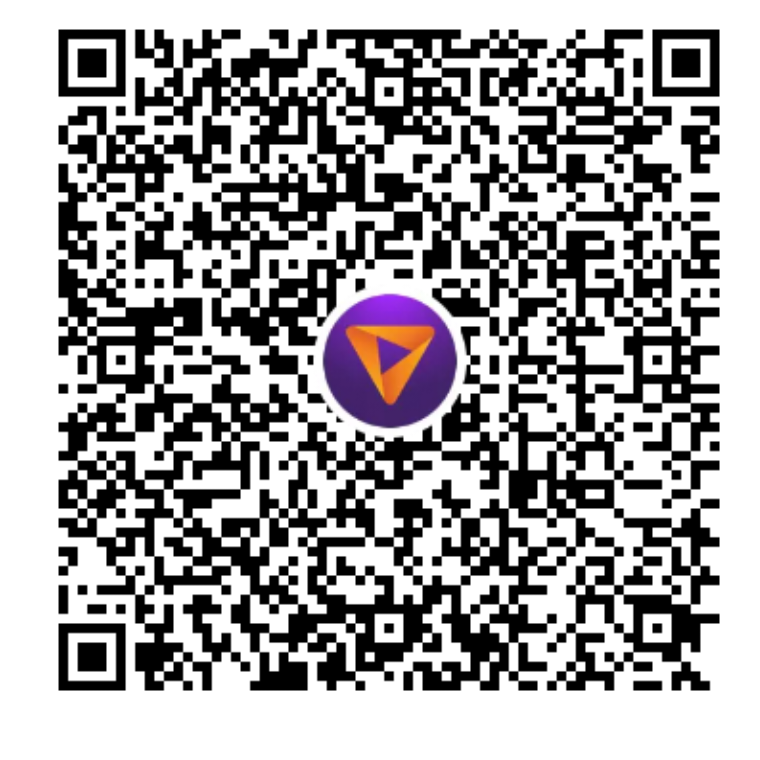
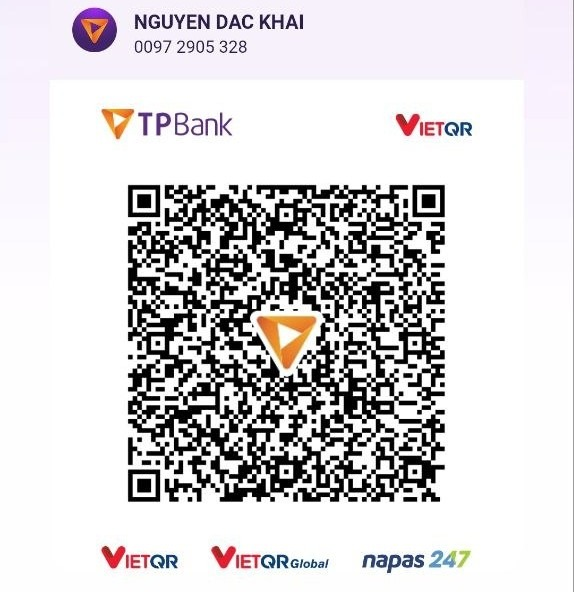
feat(payment): update QR code, TPBank account to 00972905328 and emphasize transfer content reminder

diff --git a/src/components/PaymentDashboard.tsx b/src/components/PaymentDashboard.tsx
@@ -295,6 +295,19 @@ const PaymentDashboard: React.FC<PaymentDashboardProps> = ({ translations }) => 
     setCustomPaymentAmount(String(normalizedAmount));
   };
 
+  const getBankDisplayName = (bankId?: string) => {
+    if (!bankId) return 'TPBank';
+    if (bankId === '970423' || bankId.toUpperCase() === 'TPB' || bankId.toUpperCase() === 'TPBANK') {
+      return 'TPBank';
+    }
+    return bankId;
+  };
+
+  const getEffectiveAccountNo = (accountNo?: string) => {
+    if (!accountNo || accountNo === '00004446755') return '0097 2905 328';
+    return accountNo;
+  };
+
   const buildClientVietQrUrl = (bankId: string, info: AutoPaymentInfo, amount: number) => {
     const safeAmount = normalizePaymentAmount(amount, getMaxAutoPaymentAmount(info));
     const params = new URLSearchParams({
@@ -306,17 +319,22 @@ const PaymentDashboard: React.FC<PaymentDashboardProps> = ({ translations }) => 
       params.set('accountName', info.bank.accountName);
     }
 
-    return `https://img.vietqr.io/image/${encodeURIComponent(bankId)}-${encodeURIComponent(info.bank?.accountNo || '')}-compact2.png?${params.toString()}`;
+    const safeAccountNo = (info.bank?.accountNo === '00004446755' || !info.bank?.accountNo)
+      ? '00972905328'
+      : info.bank.accountNo.replace(/\s+/g, '');
+    const safeBankId = (bankId === '970423' || bankId === 'TPB' || !bankId) ? 'TPBank' : bankId;
+
+    return `https://img.vietqr.io/image/${encodeURIComponent(safeBankId)}-${encodeURIComponent(safeAccountNo)}-compact2.png?${params.toString()}`;
   };
 
   const getCurrentQrUrl = (info: AutoPaymentInfo) => {
     const safeAmount = normalizePaymentAmount(selectedPaymentAmount, getMaxAutoPaymentAmount(info));
 
-    if (autoPaymentQrFailed || !info.bankConfigured || !info.bank?.accountNo || safeAmount <= 0) {
+    if (autoPaymentQrFailed || !info.bankConfigured || safeAmount <= 0) {
       return null;
     }
 
-    return buildClientVietQrUrl(info.bank.bankId, info, safeAmount);
+    return buildClientVietQrUrl(info.bank?.bankId || 'TPBank', info, safeAmount);
   };
 
   const handleQrImageError = (event: React.SyntheticEvent<HTMLImageElement>, info: AutoPaymentInfo) => {
@@ -325,14 +343,26 @@ const PaymentDashboard: React.FC<PaymentDashboardProps> = ({ translations }) => 
     const safeAmount = normalizePaymentAmount(selectedPaymentAmount, getMaxAutoPaymentAmount(info));
 
     if (fallbackState === 'primary') {
+      img.dataset.fallbackState = 'tpbank';
+      img.src = buildClientVietQrUrl('TPBank', info, safeAmount);
+      return;
+    }
+
+    if (fallbackState === 'tpbank') {
+      img.dataset.fallbackState = '970423';
+      img.src = buildClientVietQrUrl('970423', info, safeAmount);
+      return;
+    }
+
+    if (fallbackState === '970423') {
       img.dataset.fallbackState = 'tpb';
       img.src = buildClientVietQrUrl('TPB', info, safeAmount);
       return;
     }
 
     if (fallbackState === 'tpb') {
-      img.dataset.fallbackState = 'tpbank';
-      img.src = buildClientVietQrUrl('TPBank', info, safeAmount);
+      img.dataset.fallbackState = 'static';
+      img.src = '/QR.png';
       return;
     }
 
@@ -744,15 +774,15 @@ const PaymentDashboard: React.FC<PaymentDashboardProps> = ({ translations }) => 
                   <div className="payment-bank-card rounded-xl border border-app-accent/15 bg-white/95 divide-y divide-app-accent/10">
                     <div className="flex items-center justify-between gap-3 p-4">
                       <span className="text-sm text-app-ink/50">Ngân hàng</span>
-                      <span className="font-semibold text-app-ink text-right">{autoPaymentInfo.bank.bankId}</span>
+                      <span className="font-semibold text-app-ink text-right">{getBankDisplayName(autoPaymentInfo.bank.bankId)}</span>
                     </div>
                     <div className="flex items-center justify-between gap-3 p-4">
                       <span className="text-sm text-app-ink/50">Số tài khoản</span>
                       <div className="flex items-center gap-2 min-w-0">
-                        <span className="font-semibold text-app-ink truncate">{autoPaymentInfo.bank.accountNo}</span>
+                        <span className="font-semibold text-app-ink truncate font-mono">{getEffectiveAccountNo(autoPaymentInfo.bank.accountNo)}</span>
                         <button
                           type="button"
-                          onClick={() => copyToClipboard(autoPaymentInfo.bank?.accountNo || '', 'account')}
+                          onClick={() => copyToClipboard(getEffectiveAccountNo(autoPaymentInfo.bank?.accountNo).replace(/\s+/g, ''), 'account')}
                           className="shrink-0 p-2 rounded-lg hover:bg-app-accent/5 transition-colors"
                           title="Copy số tài khoản"
                         >
@@ -772,14 +802,14 @@ const PaymentDashboard: React.FC<PaymentDashboardProps> = ({ translations }) => 
                   </div>
                 )}
 
-                <div className="payment-help-note rounded-xl border border-app-accent/20 bg-app-accent/5 p-3 sm:p-4 text-xs sm:text-sm text-app-ink/70 leading-relaxed">
+                <div className="payment-help-note rounded-xl border border-amber-500/30 bg-amber-500/10 p-3.5 sm:p-4 text-xs sm:text-sm text-app-ink leading-relaxed shadow-sm">
                   {isAutoPaymentQuotaExhausted ? (
                     <>
-                      Quét mã này bằng app ngân hàng hoặc chuyển khoản trực tiếp vào tài khoản TPBank ở trên. Vui lòng giữ nội dung <span className="font-bold">{autoPaymentInfo.transferContent || autoPaymentInfo.code}</span> để admin đối chiếu và xác nhận thủ công.
+                      Quét mã này bằng app ngân hàng hoặc chuyển khoản trực tiếp vào tài khoản TPBank ở trên. Vui lòng <strong className="font-bold text-red-600 uppercase">GIỮ NGUYÊN NỘI DUNG CHUYỂN KHOẢN</strong> &ldquo;<strong className="font-bold text-app-accent select-all bg-white/80 px-1.5 py-0.5 rounded border border-app-accent/20">{autoPaymentInfo.transferContent || autoPaymentInfo.code}</strong>&rdquo;, nếu không giao dịch đó sẽ <strong className="font-bold text-red-600">không được hệ thống tự động ghi nhận</strong> là đã thanh toán.
                     </>
                   ) : (
                     <>
-                      Quét mã này bằng app ngân hàng, sau đó kiểm tra số tiền đã chọn và nội dung <span className="font-bold">{autoPaymentInfo.transferContent || autoPaymentInfo.code}</span> trước khi xác nhận. Khi tiền vào, webhook sẽ tự ghi nhận theo đúng số tiền ngân hàng gửi về.
+                      Vui lòng <strong className="font-bold text-red-600 uppercase">GIỮ NGUYÊN NỘI DUNG CHUYỂN KHOẢN</strong> &ldquo;<strong className="font-bold text-app-accent select-all bg-white/80 px-1.5 py-0.5 rounded border border-app-accent/20">{autoPaymentInfo.transferContent || autoPaymentInfo.code}</strong>&rdquo;, nếu không giao dịch đó sẽ <strong className="font-bold text-red-600">không được hệ thống tự động ghi nhận</strong> là đã thanh toán.
                     </>
                   )}
                 </div>

diff --git a/src/App.tsx b/src/App.tsx
@@ -940,6 +940,19 @@ export default function App() {
 
   const dashboardPaymentMonth = useMemo(() => new Date().toISOString().slice(0, 7), []);
 
+  const getBankDisplayName = (bankId?: string) => {
+    if (!bankId) return 'TPBank';
+    if (bankId === '970423' || bankId.toUpperCase() === 'TPB' || bankId.toUpperCase() === 'TPBANK') {
+      return 'TPBank';
+    }
+    return bankId;
+  };
+
+  const getEffectiveAccountNo = (accountNo?: string) => {
+    if (!accountNo || accountNo === '00004446755') return '0097 2905 328';
+    return accountNo;
+  };
+
   const buildDashboardVietQrUrl = (bankId: string, info: DashboardAutoPaymentInfo) => {
     const amount = Math.max(0, Math.round(Number(info.amount || info.remainingTotal || 0)));
     const params = new URLSearchParams({
@@ -951,7 +964,12 @@ export default function App() {
       params.set('accountName', info.bank.accountName);
     }
 
-    return `https://img.vietqr.io/image/${encodeURIComponent(bankId)}-${encodeURIComponent(info.bank?.accountNo || '')}-compact2.png?${params.toString()}`;
+    const safeAccountNo = (info.bank?.accountNo === '00004446755' || !info.bank?.accountNo)
+      ? '00972905328'
+      : info.bank.accountNo.replace(/\s+/g, '');
+    const safeBankId = (bankId === '970423' || bankId === 'TPB' || !bankId) ? 'TPBank' : bankId;
+
+    return `https://img.vietqr.io/image/${encodeURIComponent(safeBankId)}-${encodeURIComponent(safeAccountNo)}-compact2.png?${params.toString()}`;
   };
 
   const loadDashboardAutoPaymentInfo = useCallback(async () => {
@@ -997,14 +1015,26 @@ export default function App() {
     const fallbackState = img.dataset.fallbackState || 'primary';
 
     if (fallbackState === 'primary') {
+      img.dataset.fallbackState = 'tpbank';
+      img.src = buildDashboardVietQrUrl('TPBank', info);
+      return;
+    }
+
+    if (fallbackState === 'tpbank') {
+      img.dataset.fallbackState = '970423';
+      img.src = buildDashboardVietQrUrl('970423', info);
+      return;
+    }
+
+    if (fallbackState === '970423') {
       img.dataset.fallbackState = 'tpb';
       img.src = buildDashboardVietQrUrl('TPB', info);
       return;
     }
 
     if (fallbackState === 'tpb') {
-      img.dataset.fallbackState = 'tpbank';
-      img.src = buildDashboardVietQrUrl('TPBank', info);
+      img.dataset.fallbackState = 'static';
+      img.src = '/QR.png';
       return;
     }
 
@@ -2182,8 +2212,8 @@ export default function App() {
                         ) : dashboardAutoPaymentInfo?.bank ? (
                           <>
                             <div className="font-bold">{dashboardAutoPaymentInfo.bank.accountName || 'Tài khoản thanh toán'}</div>
-                            <div className="font-mono">{dashboardAutoPaymentInfo.bank.accountNo}</div>
-                            <div className="font-semibold">{dashboardAutoPaymentInfo.bank.bankId}</div>
+                            <div className="font-mono">{getEffectiveAccountNo(dashboardAutoPaymentInfo.bank.accountNo)}</div>
+                            <div className="font-semibold">{getBankDisplayName(dashboardAutoPaymentInfo.bank.bankId)}</div>
                             {dashboardAutoPaymentInfo.code && (
                               <div className="font-mono text-xs opacity-90">{dashboardAutoPaymentInfo.transferContent || dashboardAutoPaymentInfo.code}</div>
                             )}

diff --git a/backend/server.js b/backend/server.js
@@ -2154,8 +2154,18 @@ const isFailedAutoPayment = (transaction) => {
 };
 
 const buildVietQrUrl = ({ amount, code, transferContent }) => {
-  const bankId = process.env.AUTO_PAYMENT_BANK_ID;
-  const accountNo = process.env.AUTO_PAYMENT_ACCOUNT_NO;
+  let bankId = process.env.AUTO_PAYMENT_BANK_ID || 'TPBank';
+  let accountNo = process.env.AUTO_PAYMENT_ACCOUNT_NO || '00972905328';
+
+  // Override old account number if still in env
+  if (accountNo === '00004446755' || !accountNo) {
+    accountNo = '00972905328';
+  }
+  accountNo = accountNo.replace(/\s+/g, '');
+
+  if (bankId === '970423' || bankId.toUpperCase() === 'TPB') {
+    bankId = 'TPBank';
+  }
 
   if (!bankId || !accountNo || !amount || amount <= 0) {
     return null;
@@ -2167,23 +2177,24 @@ const buildVietQrUrl = ({ amount, code, transferContent }) => {
     addInfo: transferContent || code
   });
 
-  if (process.env.AUTO_PAYMENT_ACCOUNT_NAME) {
-    params.set('accountName', process.env.AUTO_PAYMENT_ACCOUNT_NAME);
-  }
+  const accountName = process.env.AUTO_PAYMENT_ACCOUNT_NAME || 'NGUYEN DAC KHAI';
+  params.set('accountName', accountName);
 
   return `https://img.vietqr.io/image/${encodeURIComponent(bankId)}-${encodeURIComponent(accountNo)}-${encodeURIComponent(template)}.png?${params.toString()}`;
 };
 
 const getAutoPaymentBankInfo = () => {
-  const bankId = process.env.AUTO_PAYMENT_BANK_ID || '';
-  const accountNo = process.env.AUTO_PAYMENT_ACCOUNT_NO || '';
-  const accountName = process.env.AUTO_PAYMENT_ACCOUNT_NAME || '';
+  let bankId = process.env.AUTO_PAYMENT_BANK_ID || 'TPBank';
+  let accountNo = process.env.AUTO_PAYMENT_ACCOUNT_NO || '00972905328';
+  const accountName = process.env.AUTO_PAYMENT_ACCOUNT_NAME || 'NGUYEN DAC KHAI';
 
-  if (!bankId || !accountNo) {
-    return null;
+  if (accountNo === '00004446755' || !accountNo) {
+    accountNo = '00972905328';
   }
+  accountNo = accountNo.replace(/\s+/g, '');
 
-  return { bankId, accountNo, accountName };
+  // Luôn trả về tên ngân hàng hiển thị là TPBank
+  return { bankId: 'TPBank', accountNo, accountName };
 };
 
 const isMissingOptionalPaymentSchema = (error) => {

diff --git a/AUTO-PAYMENT-SETUP.md b/AUTO-PAYMENT-SETUP.md
@@ -19,8 +19,8 @@ Dat cac env vars tren Render backend:
 ```bash
 AUTO_PAYMENT_WEBHOOK_SECRET=tao-chuoi-bi-mat-dai-va-ngau-nhien
 AUTO_PAYMENT_PREFIX=FSI
-AUTO_PAYMENT_BANK_ID=970423
-AUTO_PAYMENT_ACCOUNT_NO=00004446755
+AUTO_PAYMENT_BANK_ID=TPBank
+AUTO_PAYMENT_ACCOUNT_NO=00972905328
 AUTO_PAYMENT_ACCOUNT_NAME=NGUYEN DAC KHAI
 AUTO_PAYMENT_QR_TEMPLATE=compact2
 AUTO_PAYMENT_MONTHLY_LIMIT=50
